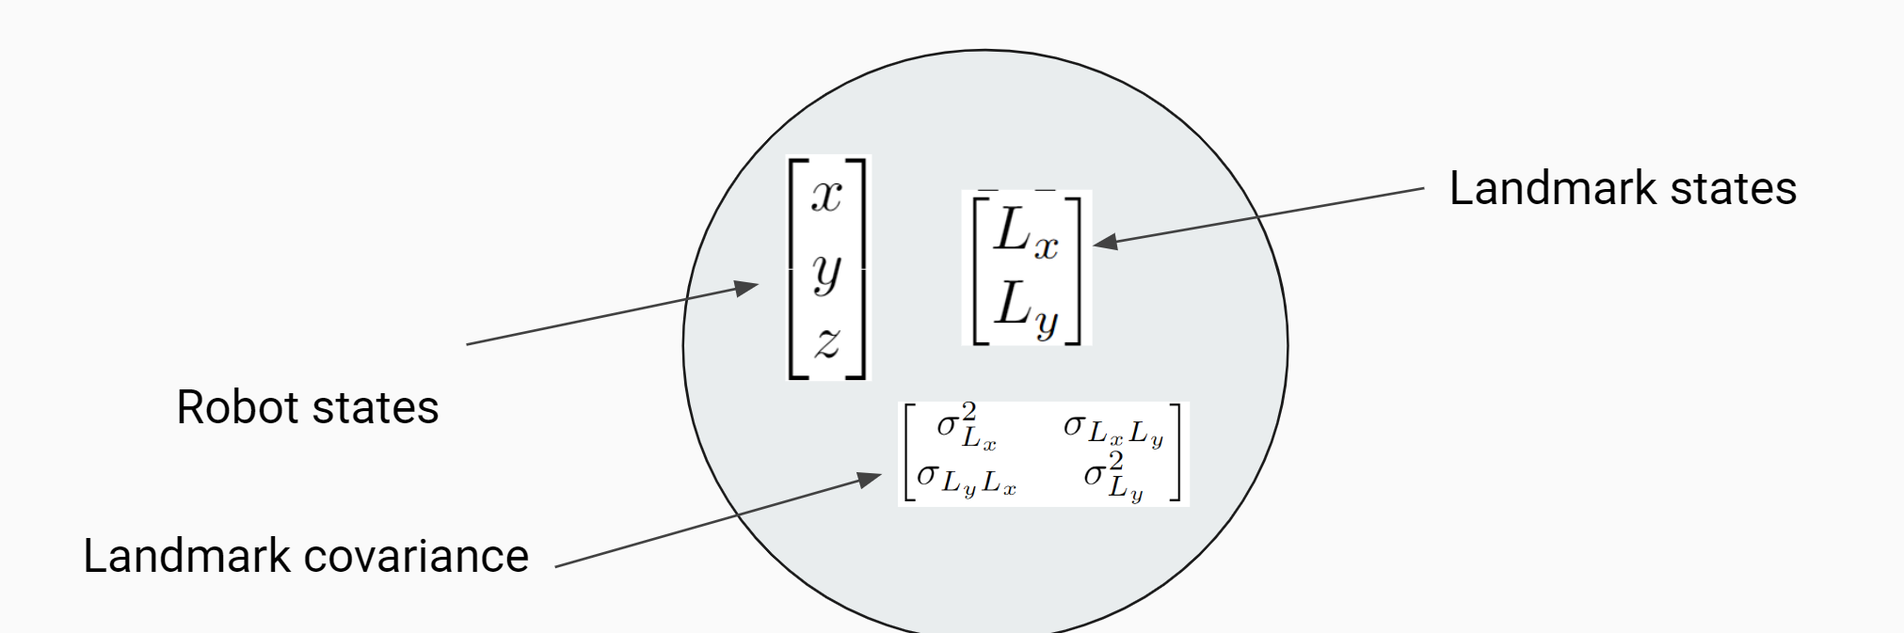
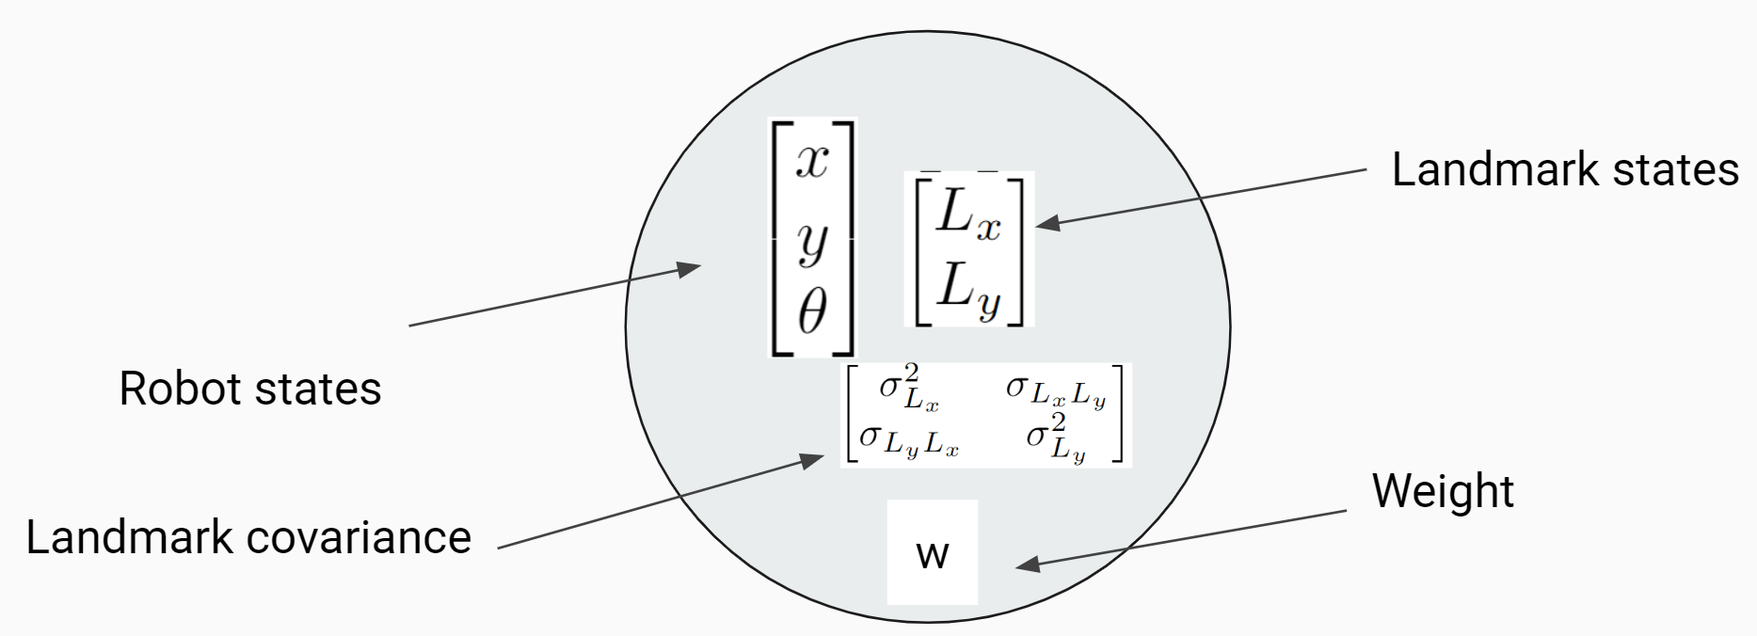
update site

diff --git a/docs/03-method.md b/docs/03-method.md
@@ -3,17 +3,17 @@ layout: page
 title: Method
 permalink: /method/
 ---
-Simultaneous Localization and Mapping (SLAM) algorithms fuse various sensor readings to track an agent’s location and map its surroundings. They are perfect for our goal of localizing a robot in an unknown environment of the MR.CLAM dataset. While there are many SLAM algorithms, we choose to use FastSLAM 1.0 because it fits our problem well and combines familiar algorithms in creative ways. Note that although FastSLAM 1.0 is just one algorithm in a family of FastSLAM algorithms, we will use the term FastSLAM 1.0 and FastSLAM interchangeably. 
+Simultaneous Localization and Mapping (SLAM) algorithms fuse various sensor readings to track an agent's location and map its surroundings. They are perfect for our goal of localizing a robot in an unknown environment of the MR.CLAM dataset. While there are many SLAM algorithms, we choose to use FastSLAM 1.0 because it fits our problem well and combines familiar algorithms in creative ways. Note that although FastSLAM 1.0 is just one algorithm in a family of FastSLAM algorithms, we will use the term FastSLAM 1.0 and FastSLAM interchangeably. 
 
-Obstacles in the MR.CLAM dataset are stationary and tagged by a barcode. Therefore, FastSLAM 1.0, which is a landmark based SLAM, is perfect for the task. We also considered another landmark based SLAM - the Extended Kalman Filter SLAM (EKF SLAM). However, FastSLAM 1.0 was chosen due to its improved efficiency. The creater of FastSLAM Michael Montemerlo designed FastSLAM as a response to the EKF SLAM's time consuming sensor update step. The EKF SLAM inverts several large covariance matrices, causing its time complexity to be $O(K^2)$, where $K$ represents the number of landmarks. In contrast, the time complexity of FastSLAM 1.0 can be as low as $O(M log K)$, where $M$ and $K$ represent the number of particles and landmarks respectively. Our implementation has a time complexity of $O(MK)$. 
+Obstacles in the MR.CLAM dataset are stationary and tagged by a barcode. Therefore, FastSLAM 1.0, which is a landmark based SLAM, is perfect for the task. We also considered another landmark based SLAM - the Extended Kalman Filter SLAM (EKF SLAM). However, FastSLAM 1.0 was chosen due to its improved efficiency. The creator of FastSLAM Michael Montemerlo designed FastSLAM as a response to the EKF SLAM's time-consuming sensor update step. The EKF SLAM inverts several large covariance matrices, causing its time complexity to be $O(K^2)$, where $K$ represents the number of landmarks. In contrast, the time complexity of FastSLAM 1.0 can be as low as $O(M log K)$, where $M$ and $K$ represent the number of particles and landmarks respectively. Our implementation has a time complexity of $O(MK)$. 
 
-We also chose FastSLAM 1.0 due to its technical ingenuity. FastSLAM draws inpirations from the Particle Filter and the Extended Kalman Filter. Implementing FastSLAM allows us to review and utilize a large portion of E205's material. Since we are more familiar with the components of FastSLAM than many other SLAM algorithms, we have more freedom to make design decisions. 
+We also chose FastSLAM 1.0 due to its technical ingenuity. FastSLAM draws inspiration from the Particle Filter and the Extended Kalman Filter. Implementing FastSLAM allows us to review and utilize a large portion of E205's material. Since we are more familiar with the components of FastSLAM than many other SLAM algorithms, we have more freedom to make design decisions. 
 
 # FastSLAM
 Our implementation of FastSLAM can be found [here](https://github.com/echen4628/fastslam1/blob/main/FASTSlam.py) in the $\texttt{FASTSlam.py}$ file. Like the original algorithm outlined in "FastSLAM: A Factored Solution to the Simultaneous Localization and Mapping Problem" by Michael Montemerlo et al., our implementation has two main components - the $\texttt{Particle}$ and $\texttt{FastSLAM}$ classes. 
 
 ## $\texttt{Class: Particle}$
-The $\texttt{Particle}$ class encodes a single FastSLAM particle. In FastSLAM, each particle contains an extimated state of the robot in the global frame. The state vector $X$ of a robot in the MR.CLAM dataset is [$x$, $y$, $\theta$], representing the x,y coordinate of the robot and its angle. Unlike a particle in a Particle Filter, FastSLAM particles also record estimated landmark positions and covariances. Each landmark state vector $L$ is represented by [$x$, $y$]. Each landmark covariance, $\texttt{landmark\_cov}$, is a typical 2X2 matrix representing the covariance in the corresponding landmark state. These covariance matrices will be used later in an EKF style update step. On initialization, the robot state is set to be the groundtruth starting pose and the landmark covariance to the identity. Landmark positions are initialized later in the sensor update stage of the FastSLAM algorithm. Unlike the typical FastSLAM particle, our particles do not carry a weight. We include the particle weight in the $\texttt{Fastslam}$ class for direct access and avoid an unnecessary loop to collect weights from each particle when needed. 
+The $\texttt{Particle}$ class encodes a single FastSLAM particle. In FastSLAM, each particle contains an estimated state of the robot in the global frame. The state vector $X$ of a robot in the MR.CLAM dataset is [$x$, $y$, $\theta$], representing the x,y coordinate of the robot and its angle. Unlike a particle in a Particle Filter, FastSLAM particles also record estimated landmark positions and covariances. Each landmark state vector $L$ is represented by [$x$, $y$]. Each landmark covariance, $\texttt{landmark\_cov}$, is a typical 2X2 matrix representing the covariance in the corresponding landmark state. These covariance matrices will be used later in an EKF style update step. On initialization, the robot state is set to be the groundtruth starting pose and the landmark covariance to the identity. Landmark positions are initialized later in the sensor update stage of the FastSLAM algorithm. Unlike the typical FastSLAM particle, our particles do not carry a weight. We include the particle weight in the $\texttt{Fastslam}$ class for direct access and avoid an unnecessary loop to collect weights from each particle when needed. 
 
 
 <div>
@@ -25,7 +25,7 @@ The $\texttt{Particle}$ class encodes a single FastSLAM particle. In FastSLAM, e
 The $\texttt{Fastslam}$ class implements are the remaining parts of the FastSLAM algorithm. It keeps track of the number of particles, a list of particles, and the weights for each particle. It includes four main functions: 1. $\texttt{propagate\_all\_states}$, 2. $\texttt{reweight\_and\_update}$, 3. $\texttt{combine\_particles}$, and 4. $\texttt{resample}$.
 
 ### $\texttt{Method: propagate\_all\_states}$
-The $\texttt{propagate\_all\_states}$ function implements the prediction step of FastSLAM. Its arguments are the inputs to the robot, time difference between inputs, and a boolean indicating whether noise will be added to the system before progating or after. As mentioned in the Data section, the MR.CLAM dataset provides each robot’s forward velocity $v$ and angular velocity $\omega$. We update each particle’s robot state according to the following motion model.
+The $\texttt{propagate\_all\_states}$ function implements the prediction step of FastSLAM. Its arguments are the inputs to the robot, the time difference between inputs, and a boolean indicating whether noise will be added to the system before propagating or after. As mentioned in the Data section, the MR.CLAM dataset provides each robot's forward velocity $v$ and angular velocity $\omega$. We update each particle's robot state according to the following motion model.
 
 $\begin{equation}
 x_t = x_{t-1} + v_t * cos(\theta)*\Delta t 
@@ -42,7 +42,7 @@ $\begin{equation}
 If noise is to be added before motion model propagation, then gaussian noise centered around 0 is added to $v_t$ and $\omega_t$ first. Otherwise, gaussian noise centered around 0 is added to $x_t$, $y_t$, and $\theta_t$. 
 
 ### $\texttt{Method: reweight\_and\_update}$
-The next stage of the algorithm is reweight and update. The $\texttt{reweight\_and\_update}$ function takes in the measured range $r$ and bearing $\phi$ to all observed landmarks. The function loops through each particle and then loops through the measurements for each landmark to reweight the particle and update the associated landmark position. For particles that have never seen the landmark before now, we simply initialize the landmark according to the measurement without changing the particle weight. The correction step is also not needed for this landmark. Because the measurements are $r$ and $\phi$, we need translate them to landmark $L_x$ and $L_y$ positions using the following equations
+The next stage of the algorithm is reweight and update. The $\texttt{reweight\_and\_update}$ function takes in the measured range $r$ and bearing $\phi$ to all observed landmarks. The function loops through each particle and then loops through the measurements for each landmark to reweight the particle and update the associated landmark position. For particles that have never seen the landmark before now, we simply initialize the landmark according to the measurement without changing the particle weight. The correction step is also not needed for this landmark. Because the measurements are $r$ and $\phi$, we need to translate them to landmark $L_x$ and $L_y$ positions using the following equations
 
 $\begin{equation}
 L_x = x_t + r*cos(\phi + \theta_t)
@@ -52,7 +52,7 @@ $\begin{equation}
 L_y = y_t + r*sin(\phi + \theta_t)
 \end{equation}$
 
-If the landmark has been observed previously (in other words, the particle already carries an estimation of the landmark’s position), then the measurement will be used for reweighting the particle and to update the landmark position. We reweight each particle by the using the following equations,
+If the landmark has been observed previously (in other words, the particle already carries an estimation of the landmark's position), then the measurement will be used for reweighting the particle and updating the landmark position. We reweight each particle by using the following equations,
 
 $\begin{equation}
 p_w = \Pi_{j} w_j
@@ -73,9 +73,9 @@ $\begin{equation}
 Q_j = H_t \overline{\Sigma}_{L,j,t} H_t^T + \Sigma_{z,t}
 \end{equation}$
 
-, where $H_t$ is the sensor model uncertainty (which we set to be the identity because the entirety of the landmark position can be measured), $\overline{\Sigma}_{L,t}$ is the landmark covariance, and $\Sigma_{z,t}$ is the sensor covariance. After each particle’s new weight is calculated, they are normalized so that the total particle weight equals 1. 
+, where $H_t$ is the sensor model uncertainty (which we set to be the identity matrix because the entirety of the landmark position can be measured), $\overline{\Sigma}_{L,t}$ is the landmark covariance, and $\Sigma_{z,t}$ is the sensor covariance. After each particle's new weight is calculated, they are normalized so that the total particle weight equals 1. 
 
-The landmarks measurements are also used to update each landmark’s position by an EKF style update step.
+The landmarks measurements are also used to update each landmark's position by an EKF style update step.
 
 $\begin{equation}
 K_{j,t} = \overline{\Sigma}_{L,j, t-1}H_t^TQ^{-1}

diff --git a/docs/04-experiment_and_results.md b/docs/04-experiment_and_results.md
@@ -4,7 +4,7 @@ title: Experiments and Results
 permalink: /experiment_and_results/
 ---
 
-The goal of our project is to localize a robot in an unknown environment. Along the way, we hope to characterize the performance of FastSLAM 1.0 and its robustness. We will quantify performance using the euclidean distance between the estimated and actual path and landmarks. We expect the errors to be higher at the start than at the end because localization should benefit from a more complete map of the environment. 
+The goal of our project is to localize a robot in an unknown environment. Along the way, we also characterized the performance of FastSLAM 1.0 and its robustness. We quantified performance using the euclidean distance between the estimated and actual positions of the robot and landmarks. We expected the errors to be higher at the start than at the end because localization should benefit from a more complete map of the environment. 
 
 $\begin{equation}
 \text{Euclidean Distance at t } = \sqrt{(x_t-\hat{x_t})^2}
@@ -13,9 +13,9 @@ $\begin{equation}
 , where $x_t$ is the groundtruth value and $\hat{x}_t$ is the estimated value at time $t$.
 
 # Landmark 
-For our experiment, we used robot 2 of the first dataset. Subsequent data reads are spaced 1 second apart as explained in the Data section. The FastSLAM filter uses 100 particles. We add gaussian noise centered around 0 with a standard deviation of 0.05 m independently to the forward velocity and angular velocity inputs. We set the sensor covariance to 0.02 m. The MR.CLAM dataset did not provide a sensor covariance, so this value was picked based on observation that measurement data appears to be relatively high quality. This is supported by observing the difference between the actual landmark and estimated landmark positions when the robot position is known.
+For our experiment, we used robot 2 of the first dataset. Subsequent data reads are spaced 1 second apart as explained in the Data section. The FastSLAM filter uses 100 particles. We add gaussian noise centered around 0 with a standard deviation of 0.05 m independently to the forward velocity and angular velocity inputs. We set the sensor covariance to 0.02 m. The MR.CLAM dataset did not provide a sensor covariance, so this value was picked based on the observation that measurement data appears to be relatively high quality. This is supported by observing the difference between the actual landmark and estimated landmark positions when the robot position is known.
 
-Before estimating both robot and landmark positions simultaneously, we ran two experiments to verify that our implementation of FastSLAM 1.0 is bug free. The first experiment is attempting to localize the robot using groundtruth landmark data. In this experiment, at every timestep, the landmarks estimations of every particle will be set to their ground truth positions. This experiment tests whether our implementation of FastSLAM 1.0 can localize well in a known environment. Below is the result.
+Before estimating both robot and landmark positions simultaneously, we ran two experiments to verify that our implementation of FastSLAM 1.0 is bug-free. The first experiment is attempting to localize the robot using groundtruth landmark data. In this experiment, at every timestep, the landmarks estimations of every particle will be set to their ground truth positions. This experiment tests whether our implementation of FastSLAM 1.0 can localize well in a known environment. Below is the result.
 
 
 <div>
@@ -30,9 +30,9 @@ Before estimating both robot and landmark positions simultaneously, we ran two e
 
 ###### <b>Fig. 2</b> Euclidean distance between estimated and groundtruth paths after localization using groundtruth landmarks
 
-We observe that with known landmarks, the estimated robot path followed the groundtruth robot path closely. The maximum error was around 0.53 m, but most errors are around or below 0.3 m. This suggests that our algorithm are capable of localization.
+We observe that with known landmarks, the estimated robot path followed the groundtruth robot path closely. The maximum error was around 0.53 m, but most errors are around or below 0.3 m. This suggests that our algorithm is capable of localization.
 
-Our second experiment is attempting to map the robot’s environment using ground truth position data. In this experiment, at every timestep, the robot state of every particle is set to be the groundtruth location. This experiment tests the ability of our implementation to map the environment given the actual robot position. Below is the result.
+Our second experiment attempts to map the robot's environment using ground truth position data. In this experiment, at every timestep, the robot state of every particle is set to be the groundtruth location. This experiment tests the ability of our implementation to map the environment given the actual robot position. Below is the result.
 
 <div>
   <img src="https://echen4628.github.io/fastslam1/assets/img/Mapping_with_GT_Positions.png" alt="Mapping with Groundtruth Positions" width="100%" />
@@ -40,7 +40,7 @@ Our second experiment is attempting to map the robot’s environment using groun
 
 ###### <b>Fig. 3</b> Euclidean distance between estimated and groundtruth paths after localization using groundtruth landmarks
 
-| Landmark | Euclidean Distance | Landmark | Distance | Landmark | Distance
+| Landmark | Euclidean Distance (m)| Landmark | Distance| Landmark | Distance
 |----| -----| -----| ----|---|---|
 |6 | 0.07256|10| 0.01907|16| 0.03206|
 |7 | 0.12077|11| 0.07136|17| 0.03464|
@@ -48,6 +48,59 @@ Our second experiment is attempting to map the robot’s environment using groun
 |9 | 0.03167|14| 0.01049|19| 0.01158|
 |10| 0.01907|15| 0.01102|20| 0.02700|
 
+###### <b>Table. 1</b> Euclidean distance between estimated and groundtruth landmarks after mapping using groundtruth positions. Average error is 0.03667 m.
+
+We observe that most landmark estimations were distinctly close to the groundtruth locations. The average error is 0.03667 m. The area of the testing site was close to about 60 m^2, so our error is relatively small. This promising result suggests our algorithm is also capable of accurate mapping when the localization is accurate. This also motivated us to use a low sensor covariance value.
+
+Finally, we attempted to localize the robot and map its environment simultaneously. The result is as follows.
+<div>
+  <img src="https://echen4628.github.io/fastslam1/assets/img/SLAM.png" alt="SLAM" width="100%" />
+</div>
+
+###### <b>Fig. 4</b> Simultaneous Localization and Mapping
+
+<div>
+  <img src="https://echen4628.github.io/fastslam1/assets/img/SLAM_Tracking_Error.png" alt="SLAM Tracking Error" width="100%" />
+</div>
+
+###### <b>Fig. 5</b> Simultaneous Localization and Mapping Tracking Error
+
+| Landmark | Euclidean Distance (m)| Landmark | Distance| Landmark | Distance
+|----| -----| -----| ----|---|---|
+|6 | 0.39581|10| 0.63810|16| 0.48963|
+|7 | 0.47139|11| 0.38798|17| 0.45038|
+|8 | 0.47292|13| 0.39505|18| 0.62538|
+|9 | 0.53963|14| 0.49539|19| 0.49196|
+|10| 0.68457|15| 0.33944|20| 0.52820|
+
+###### <b>Table. 2</b> Euclidean distance between estimated and groundtruth landmarks using FastSLAM 1.0. Average error is 0.4937 m.
+
+We notice that the localization and mapping have higher errors than when we conducted our separate experiments. We also do not notice a decrease of localization errors as we predicted. In fact, the error was lowest at the start. Notably, the entire scene appears to be shifted to the right. The scene does appear to be mostly internally consistent. We believe this error is a result of a low IMU update frequency. Initially, the robot moves towards the right and then rotates counterclockwise. When the robot makes this turn, our estimated path lagged behind. The extra distance in the estimated robot path before the associated turn likely cause all subsequent landmark initializations and updates to be shifted to the right. This result suggests that FastSLAM 1.0's mapping capabilities is dependent on accurate localization. 
 
 # Robustness
-To test the robustness of the robot, we manually either set the estimated pose of the robot to be 5,5,0, or set the landmark estimations to be 2,2 at the 500th timestep. The entire dataset spans about 1500 timesteps, placing this disturbance at about one third of the way into the run.
+To test the robustness of the robot, we manually either set the estimated pose of the robot to be [5m, 5m, 0 rad] at the 500th timestep. The entire dataset spans about 1500 timesteps, placing this disturbance at about one third of the way into the run.
+
+<div>
+  <img src="https://echen4628.github.io/fastslam1/assets/img/Teleport_Robot.png" alt="SLAM" width="100%" />
+</div>
+
+###### <b>Fig. 6</b> Robot is teleported to $x=5$, $y=5$, and $\theta = 0$ at t = 500s.
+
+<div>
+  <img src="https://echen4628.github.io/fastslam1/assets/img/Teleport_Robot_Tracking_Error.png" alt="SLAM Tracking Error" width="100%" />
+</div>
+
+###### <b>Fig. 7</b> Tracking error in the teleporting robot experiment. The error increased dramatically about 500s after the start of the run.
+
+
+| Landmark | Euclidean Distance (m)| Landmark | Distance| Landmark | Distance
+|----| -----| -----| ----|---|---|
+|6 | 6.20589|10| 9.76596|16| 6.69041|
+|7 | 5.09170|11| 4.50479|17| 6.65484|
+|8 | 7.29407|13| 5.90074|18| 9.02313|
+|9 | 5.63583|14| 5.66122|19| 6.17277|
+|10| 7.44631|15| 4.93662|20| 7.58258|
+
+###### <b>Table. 3</b> Euclidean distance between estimated and groundtruth landmarks in the teleporting robot experiment. Average error is 6.5711 m.
+
+After teleporting, the robot did not return back to the groundtruth path. The landmark positions, while relatively accurate at first, moved towards the the robot. The correction step was not suffice to fix this error and in fact moved the landmarks in the wrong direction. The robot's failure to correct itself reinforces the idea that localization and mapping depend heavily on each other's performance. Large errors in one aspect can lead to irrecoverable errors in the other side of SLAM. 

diff --git a/docs/02-data.md b/docs/02-data.md
@@ -5,7 +5,7 @@ permalink: /data/
 ---
 
 # Data Source
-We are using the Multi-robot Cooperative Localization and Mapping [2] dataset collected by Leung et. al at the University of Toronto Institute for Aerospace Studies. The dataset consists of nine sub-datasets, which differ in experimental runtime and setup. Data was produced using 5 moving robots and 15 static landmarks, which were each assigned a unique barcode. 
+We are using the Multi-robot Cooperative Localization and Mapping [3] dataset collected by Leung et. al at the University of Toronto Institute for Aerospace Studies. The dataset consists of nine sub-datasets, which differ in experimental runtime and setup. Data was produced using 5 moving robots and 15 static landmarks, which were each assigned a unique barcode. 
 
 <br>
 <div>
@@ -17,6 +17,16 @@ We are using the Multi-robot Cooperative Localization and Mapping [2] dataset co
 <br>
 During each experiment, the robots drive to random waypoints in the workspace, logging their odometry at a frequency of 1 Hz. Whenever another robot or landmark is in its field of view, a robot records a range and bearing measurement. The robots are also capable of logging multiple measurements at the same time in the event that more than one object is in view. In addition, groundtruth data for all robot and landmark positions is simultaneously recorded using an external 10-camera Vicon motion capture system.
 
+For our experiment, we used MR.CLAM Dataset 1, focusing on Robot 2. Our data files (original and cleaned) can be found [here](https://github.com/echen4628/fastslam1/tree/main/data).
+
+<br>
+<div>
+  <img src="https://echen4628.github.io/fastslam1/assets/img/data_collection.png" alt="Data Collection" width="400" />
+</div>
+
+###### <b>Fig. 2</b> Example of barcode detection
+
+<br>
 <br>
 # Data Description
 In each sub-dataset, there are seventeen text files. The following table summarizes the five types of files and their respective fields:
@@ -94,28 +104,28 @@ The landmark groundtruth file contains the average Vicon x and y position measur
 
 
 #### <u>Robot Groundtruth</u>
-There are five robot groundtruth files, with each filename corresponding to a robot's subject number. Each robot's groundtruth file contains timestamped robot position information (x,y,θ). This data is useful for measuring our algorithm's localization performance.
+There are five robot groundtruth files, with each filename corresponding to a robot's subject number. Each robot's groundtruth file contains timestamped robot position information (x,y,$\theta$). This data is useful for measuring our algorithm's localization performance.
 
 
 <div>
-  <img src="https://echen4628.github.io/fastslam1/assets/img/Groundtruth.png" alt="Groundtruth" width="800" />
+  <img src="https://echen4628.github.io/fastslam1/assets/img/Groundtruth.png" alt="Groundtruth" width="700" />
 </div>
 
-###### <b>Fig. 2</b> Dataset 1's landmark groundtruth data (orange) and robot groundtruth data (green)
+###### <b>Fig. 3</b> Dataset 1's landmark groundtruth data (orange) and robot 2's groundtruth data (green)
 
 <br>
 
 #### <u>Robot Odometry</u>
-There are five robot odometry files, with each filename corresponding to a robot's subject number. Each robot's odometry file contains timestamped forward and angular velocity commands(v,ω). This data is used in our algorithm to propagate our particle states.
+There are five robot odometry files, with each filename corresponding to a robot's subject number. Each robot's odometry file contains timestamped forward and angular velocity commands($v$,$\omega$). This data is used in our algorithm to propagate our particle states.
 
 #### <u>Measurement Files</u>
-here are five measurement files, with each filename corresponding to a robot's subject number. As mentioned earlier, the measurement files contain timestamped range and bearing measurements (r,φ) to specific subjects. The range indicates a robot's recorded distance from a barcoded subject, and the bearing represents to angle between the robot's forward view and the subject. It is important to note that the bearing measurements are recorded with respect to the robot body's frame, which is depicted in Figure 2. The measurement data is used in our algorithm's reweight and update steps, which are explained in more detail in the <b>[Method](https://echen4628.github.io/fastslam1/method/)</b> section.
+here are five measurement files, with each filename corresponding to a robot's subject number. As mentioned earlier, the measurement files contain timestamped range and bearing measurements ($r$,$\phi$) to specific subjects. The range indicates a robot's recorded distance from a barcoded subject, and the bearing represents to angle between the robot's forward view and the subject. It is important to note that the bearing measurements are recorded with respect to the robot body's frame, which is depicted in Figure 2. The measurement data is used in our algorithm's reweight and update steps, which are explained in more detail in the <b>[Method](https://echen4628.github.io/fastslam1/method/)</b> section.
 
 <div>
   <img src="https://echen4628.github.io/fastslam1/assets/img/Bearing_Frames.png" alt="Bearing Frames" width="400" />
 </div>
 
-###### <b>Fig. 3</b> Robot frame vs inertial frame, where θ is the robot's yaw 
+###### <b>Fig. 4</b> Robot frame vs inertial frame, where $\theta$ is the robot's yaw 
 
 <br>
 
@@ -124,7 +134,7 @@ Before we started our algorithm, we decided to clean the odometry, measurement, 
 
 (1) Many timestamps had multiple sets of data for the same subject, resulting in significantly more lines of data than timestamps. For example, for 1491 timestamps, Robot 1's original odometry file contained 97890 entries.
 
-(2) For our algorithm, we were interested in a single robot's ability to map the static landmarks and its own position. As a result, we chose not to use the measurement data that corresponded to other robots.
+(2) For our algorithm, we were interested in a single robot's ability to map the static landmarks and its own position. This is because FastSLAM 1.0 works in static scenarios. As a result, we chose not to use the measurement data that corresponded to other robots.
 
 A general overview of how we cleaned the data is described below. The data was saved as new files to preserve the original data and verify the cleaned data's accuracy. 
 

diff --git a/docs/01-introduction.md b/docs/01-introduction.md
@@ -3,21 +3,22 @@ layout: page
 title: Introduction
 permalink: /introduction/
 ---
-Welcome! This is the website for our E205 final project, FastSLAM 1.0 for MR.CLAM
+Welcome! This is the website for our E205 final project, FastSLAM 1.0 for MR.CLAM.
 
 # Motivation
-Simultaneous Localization and Mapping (SLAM) is used situations where both the robot path and its environment are uncertain. For example, SLAM can be useful in locations with unreliable GPS information, such as underwater and underground environments. Through SLAM, we are able to simultaneously map the environment and track a robot's location. 
+Simultaneous Localization and Mapping (SLAM) is used in situations where both the robot path and its environment are uncertain. For example, SLAM can be useful in locations with unreliable GPS information, such as underwater and underground environments. Through SLAM, we are able to simultaneously map the environment and track a robot's location. 
 
-FastSLAM 1.0 is a landmark based SLAM like the EKF SLAM we learned about in class, and it only works in non-dynamic scenes.
+FastSLAM 1.0 is a landmark based SLAM like the EKF SLAM we learned about in class, and it only works in static scenes. FastSLAM has improved time complexity and has demonstrated improved accuray in literature [1][2].
 
 <br>
+
 # Problem Statement
-For our project, we aimed to localize a robot's position in unknown environment using FastSLAM 1.0.
+For our project, we aimed to localize a robot's position in unknown environment using FastSLAM 1.0. Along the way, we also characterized the performance of FastSLAM 1.0 and its robustness. We quantified performance using the euclidean distance between the estimated and actual positions of the robot and landmarks.
 
 #### <u>Input Measurements</u>
-Our algorithm takes in an input of forward velocity, v [m/s], and angular velocity, ω [rad/s] to propagate particle states.
+Our algorithm takes in an input of forward velocity, $v$ [m/s], and angular velocity, $\omega$ [rad/s] to propagate particle states.
 
-To perform particle reweights and updates, we use a robot's measurement data, which specifies its distance, r [m], and bearing, φ [rad], from an obstacle. More information on this can be found in the <b>[Data](https://echen4628.github.io/fastslam1/data/)</b> section.
+To perform particle reweighting and updates, we use a robot's measurement data, which specifies its distance, $r$ [m], and bearing, $\phi$ [rad], to an obstacle. More information on this can be found in the <b>[Data](https://echen4628.github.io/fastslam1/data/)</b> section.
 
 #### <u>State Variables Being Estimated</u>
 We defined stated variables for both the robot and landmarks. Each particle has a 3x1 matrix representing the robot's state variables, a 15x2 matrix representing the landmarks' state variables, and a 15x2x2 matrix representing the landmarks' covariance matrices. 
@@ -30,16 +31,19 @@ We defined stated variables for both the robot and landmarks. Each particle has 
 
 A description of the variables being estimated is below:
 
-Robot States:
+Robot States in Global Frame:
+
 $x$: Robot's x-position [m]<br>
 $y$: Robot's y-position [m]<br>
 $\theta$: Robot's yaw position [radians]<br>
 
-Landmark States (represented as a 2x1 matrix for individual landmarks):
+Landmark States in Global Frame (represented as a 2x1 matrix for individual landmarks):
+
 $L_x$: Landmark's x-position [m]<br>
 $L_y$: Landmark's y-position [m]<br>
 
 Landmark Covariance (represented as a 2x2 matrix for individual landmarks):
+
 $\sigma_{L_x}^2$: Landmark's xx covariance<br>
 $\sigma_{L_x L_y}$: Landmark's xy covariance<br>
 $\sigma_{L_y L_x}$: Landmark's yx covariance<br>
@@ -49,7 +53,7 @@ $\sigma_{L_y}^2$: Landmark's yy covariance<br>
 The intermediate values used to compute the state variables are described in detail in the <b>[Method](https://echen4628.github.io/fastslam1/method/)</b> section.
 
 #### <u>Coordinate Frames</u>
-Our project uses two coordinate frames: the inertial frame and the robot's frame. Both frames use a coordinate system where positive-x is to the right, positive-y is upwards, and positive yaw angle direction is counterclockwise. The robot's frame is rotated with respect to the inertial frame by the robot's yaw, θ. The figure below shows the relationship between the coordinate frames.
+Our project uses two coordinate frames: the global/inertial frame and the robot's frame. Both frames use a coordinate system where positive-x is to the right, positive-y is upwards, and positive yaw direction is counterclockwise. The robot's frame is rotated with respect to the inertial frame by the robot's yaw, θ. The figure below shows the relationship between the coordinate frames.
 
 <div>
   <img src="https://echen4628.github.io/fastslam1/assets/img/Bearing_Frames.png" alt="Bearing Frames" width="400" />

diff --git a/docs/index.md b/docs/index.md
@@ -1,18 +1,30 @@
 ---
 layout: page
-title: Project Overview
+title: FastSLAM 1.0 with MR.CLAM
 permalink: /
 exclude: true
 ---
 
-# Project Abstract
-
-
-<div style="text-align: left">
-  <img src="./assets/img/Logo.png" alt="logo" width="100" />
+<div>
+  <img src="https://echen4628.github.io/fastslam1/assets/img/SLAM.png" alt="SLAM" width="100%" />
 </div>
 
+<div>
+</form><form action="https://github.com/echen4628/fastslam1" style="display: inline;">
+    <input type="submit" style="text-align:center; font-size:1.5em ; color:white; background-color:black;display: inline;" value="Check out our Github" />
+</form>
+</div>
 
-# Project Motivation
+# Authors
 
-# System Block Diagram
+<div style="text-align: left">
+<span>
+ <a href="https://www.linkedin.com/in/eric-chen-2b8726208/" target="_blank">
+  <img style="border-radius: 50%;" src="https://media.licdn.com/dms/image/C4E03AQGwfmTjnc97Pg/profile-displayphoto-shrink_200_200/0/1635999142805?e=1676505600&v=beta&t=dsSgIRBaQ2X_-H5xyTjZjDn2LN0-wJbZN4pYjW91XRk" alt = "logo" width="100" />
+ </a>
+
+  <a href="https://www.linkedin.com/in/erinaiwasa/" target="_blank">
+  <img style="border-radius: 50%;" src="https://media.licdn.com/dms/image/C5603AQEaoBXWOjbUKQ/profile-displayphoto-shrink_400_400/0/1605421764283?e=1676505600&v=beta&t=18taH1XkdVrBzkgmF6psnwvxs_2ppoQozD9pmvRny-w" alt = "logo" width="100" />
+ </a>
+</span>
+</div>

diff --git a/docs/06-resources.md b/docs/06-resources.md
@@ -7,7 +7,9 @@ permalink: /resources/
 # References
 [1] Thrun, M. Montemerlo, D. Koller, B. Wegbreit, J. Nieto, and E. Nebot, "FastSLAM: An Efficient Solution to the Simultaneous Localization And Mapping Problem with Unknown Data Association," p. 48.
 
-[2] K. Y. Leung, Y. Halpern, T. D. Barfoot, and H. H. Liu, "The UTIAS multi-robot cooperative localization and mapping dataset," The International Journal of Robotics Research, vol. 30, no. 8, pp. 969-974, Jul. 2011, doi: 10.1177/0278364911398404.
+[2] M. Montemerlo, S. Thrun, D. Koller, and B. Wegbreit, "FastSLAM: A Factored Solution to the Simultaneous Localization and Mapping Problem," American Association for Artificial Intelligence, p. 6.
+
+[3] K. Y. Leung, Y. Halpern, T. D. Barfoot, and H. H. Liu, "The UTIAS multi-robot cooperative localization and mapping dataset," The International Journal of Robotics Research, vol. 30, no. 8, pp. 969-974, Jul. 2011, doi: 10.1177/0278364911398404.
 
 # Inspiration
 A. Sakai, D. Ingram, J. Dinius, K. Chawla, A. Raffin, and A. Paques, "PythonRobotics: a Python code collection of robotics algorithm", doi: 10.48550/arXiv.1808.10703

diff --git a/docs/05-conclusion.md b/docs/05-conclusion.md
@@ -8,7 +8,7 @@ permalink: /conclusion/
 1. Both the robot and landmark positions update according to new data. Also, only landmarks within the robot's view appear to update, which matches our expected behavior. <br>
 2. The estimated path is within a reasonable range of the actual path (<1m). <br>
 3. The algorithm appears to be lagging when the robot is expected to turn. We believe this is partially due to a low IMU sampling rate of 1 Hz. <br>
-4. If the robot's position deviates too far from the actual path, the landmark estimations are negatively impacted. Once this occurs, since the correction step depends on an accurate map, the robot can never fully recover. <br>
+4. From randomly moving the robot's position, we observed that if the robot's position deviated too far from the actual path, the landmark estimations were negatively impacted. Once this occurred, since the correction step depends on an accurate map, the robot could never fully recover. <br>
 
 
 # Future Improvements
